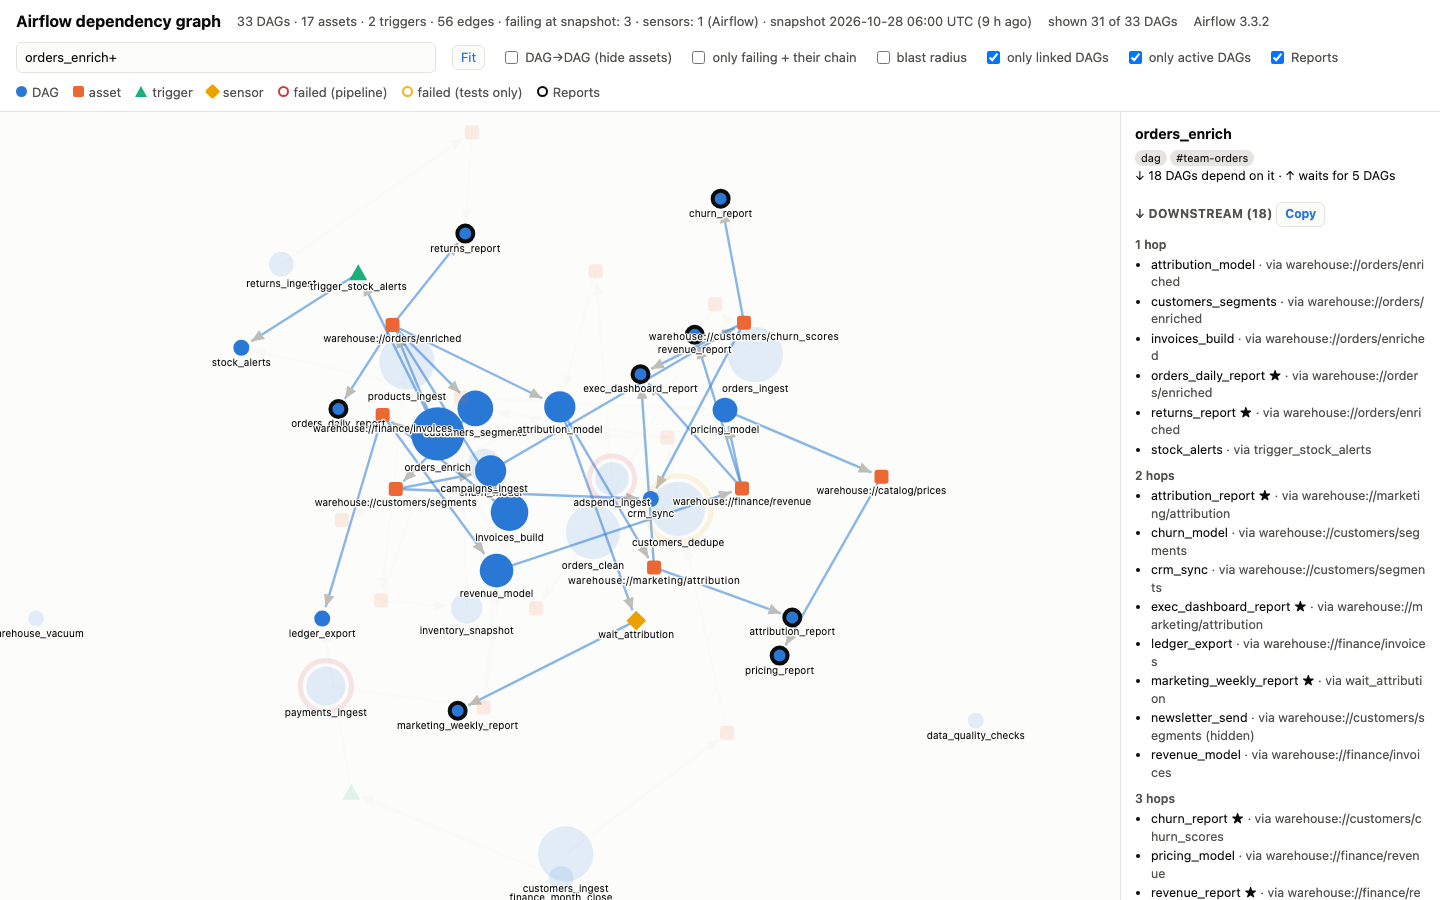
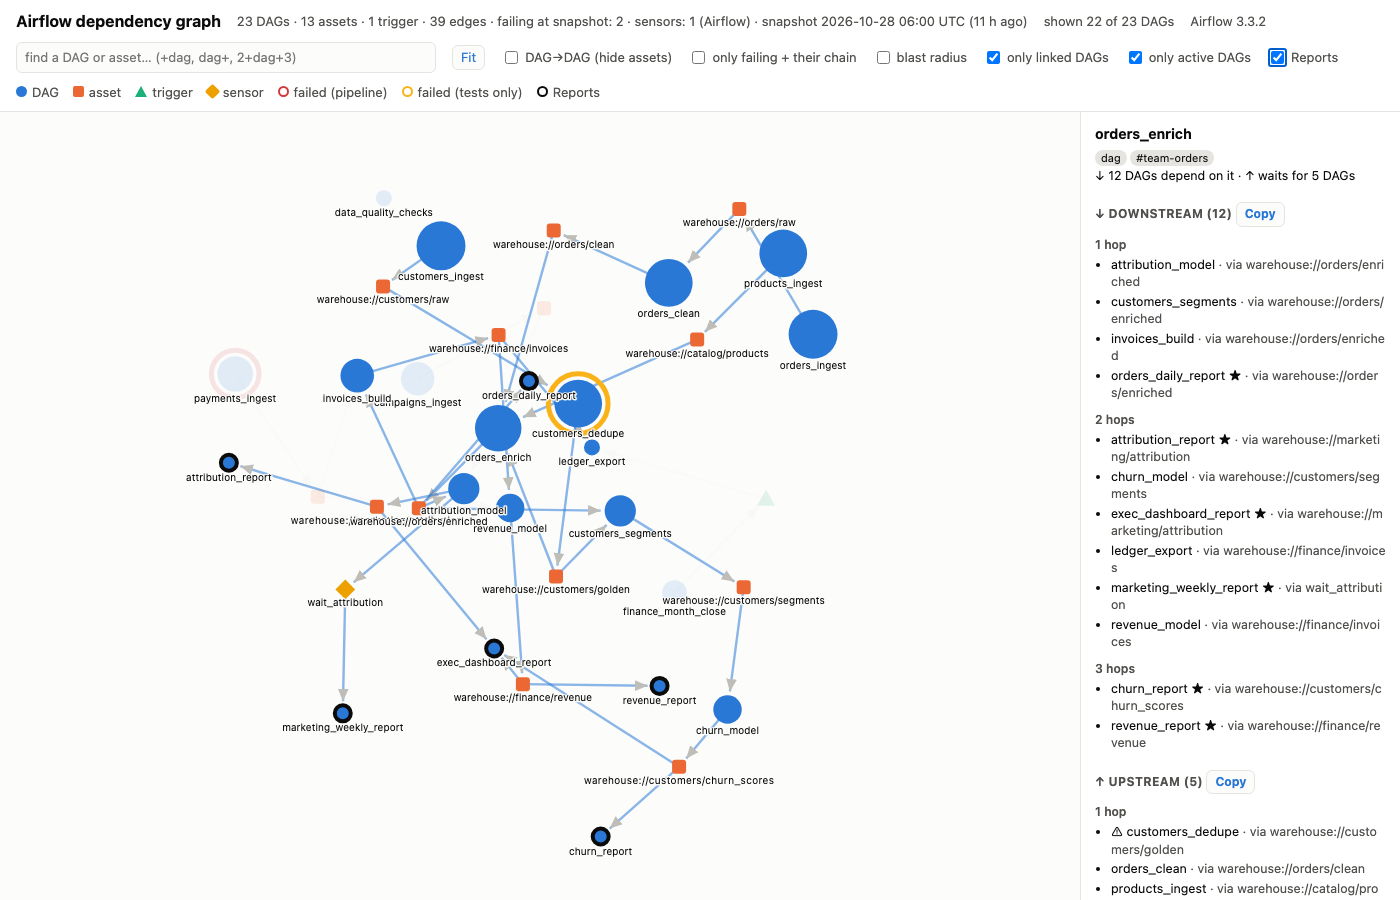
Release 0.5.2
README screenshot redone on a 23-DAG fictional snapshot so the labels are
readable; docs/demo_snapshot.py writes exactly that snapshot.

diff --git a/docs/demo_snapshot.py b/docs/demo_snapshot.py
@@ -1,6 +1,7 @@
-"""Write a fictional snapshot for the README screenshot: python3 docs/demo_snapshot.py demo.json
+"""Write the fictional snapshot behind the README screenshot: python3 docs/demo_snapshot.py demo.json
 
-Then: airflow-depgraph render demo.json --highlight '_report$' --highlight-label Reports -o demo.html
+Screenshot: AIRFLOW_DEPGRAPH_HIGHLIGHT_LABEL=Reports airflow-depgraph render demo.json --highlight '_report$' -o demo.html,
+open it in a 1400x900 window, click orders_enrich, press Fit.
 """
 
 from __future__ import annotations
@@ -9,25 +10,21 @@ import json
 import random
 import sys
 
-random.seed(7)
 FETCHED = "2026-10-28T06:00:00Z"
 TEAMS = {"orders": "team-orders", "customers": "team-customers", "finance": "team-finance",
          "marketing": "team-marketing"}
 
-# (dag_id, tags, schedule, outlets)  schedule None → asset-driven
+# (dag_id, teams, cron, outlets)  cron None → asset-driven
 PIPELINES = [
     ("orders_ingest", ["orders"], "0 4 * * *", ["warehouse://orders/raw"]),
     ("orders_clean", ["orders"], None, ["warehouse://orders/clean"]),
     ("orders_enrich", ["orders"], None, ["warehouse://orders/enriched"]),
     ("orders_daily_report", ["orders"], "0 7 * * *", []),
-    ("returns_ingest", ["orders"], "30 4 * * *", ["warehouse://orders/returns"]),
-    ("returns_report", ["orders"], None, []),
     ("customers_ingest", ["customers"], "0 3 * * *", ["warehouse://customers/raw"]),
     ("customers_dedupe", ["customers"], None, ["warehouse://customers/golden"]),
     ("customers_segments", ["customers"], None, ["warehouse://customers/segments"]),
     ("churn_model", ["customers"], None, ["warehouse://customers/churn_scores"]),
     ("churn_report", ["customers"], None, []),
-    ("crm_sync", ["customers", "marketing"], None, []),
     ("payments_ingest", ["finance"], "15 4 * * *", ["warehouse://finance/payments"]),
     ("invoices_build", ["finance"], None, ["warehouse://finance/invoices"]),
     ("revenue_model", ["finance"], None, ["warehouse://finance/revenue"]),
@@ -35,20 +32,13 @@ PIPELINES = [
     ("finance_month_close", ["finance"], "0 6 1 * *", []),
     ("ledger_export", ["finance"], None, []),
     ("campaigns_ingest", ["marketing"], "0 5 * * *", ["warehouse://marketing/campaigns"]),
-    ("adspend_ingest", ["marketing"], "10 5 * * *", ["warehouse://marketing/adspend"]),
     ("attribution_model", ["marketing"], None, ["warehouse://marketing/attribution"]),
     ("attribution_report", ["marketing"], None, []),
     ("marketing_weekly_report", ["marketing"], "0 8 * * 1", []),
-    ("newsletter_send", ["marketing"], None, []),
     ("products_ingest", ["orders"], "0 2 * * *", ["warehouse://catalog/products"]),
-    ("inventory_snapshot", ["orders"], None, ["warehouse://catalog/inventory"]),
-    ("stock_alerts", ["orders"], None, []),
-    ("pricing_model", ["orders", "finance"], None, ["warehouse://catalog/prices"]),
-    ("pricing_report", ["finance"], None, []),
     ("exec_dashboard_report", ["finance"], None, []),
     ("data_quality_checks", [], "0 9 * * *", []),
     ("gdpr_erasure", ["customers"], "0 1 * * 0", []),
-    ("warehouse_vacuum", [], "0 0 * * *", []),
 ]
 # consumer → assets it waits for
 CONSUMES = {
@@ -56,32 +46,25 @@ CONSUMES = {
     "orders_enrich": ["warehouse://orders/clean", "warehouse://customers/golden",
                       "warehouse://catalog/products"],
     "orders_daily_report": ["warehouse://orders/enriched"],
-    "returns_report": ["warehouse://orders/returns", "warehouse://orders/enriched"],
     "customers_dedupe": ["warehouse://customers/raw"],
     "customers_segments": ["warehouse://customers/golden", "warehouse://orders/enriched"],
     "churn_model": ["warehouse://customers/segments"],
     "churn_report": ["warehouse://customers/churn_scores"],
-    "crm_sync": ["warehouse://customers/segments", "warehouse://customers/churn_scores"],
     "invoices_build": ["warehouse://finance/payments", "warehouse://orders/enriched"],
     "revenue_model": ["warehouse://finance/invoices", "warehouse://finance/payments"],
     "revenue_report": ["warehouse://finance/revenue"],
     "ledger_export": ["warehouse://finance/invoices"],
-    "attribution_model": ["warehouse://marketing/campaigns", "warehouse://marketing/adspend",
-                          "warehouse://orders/enriched"],
+    "attribution_model": ["warehouse://marketing/campaigns", "warehouse://orders/enriched"],
     "attribution_report": ["warehouse://marketing/attribution"],
-    "newsletter_send": ["warehouse://customers/segments"],
-    "inventory_snapshot": ["warehouse://catalog/products"],
-    "stock_alerts": ["warehouse://catalog/inventory"],
-    "pricing_model": ["warehouse://catalog/inventory", "warehouse://finance/revenue"],
-    "pricing_report": ["warehouse://catalog/prices"],
     "exec_dashboard_report": ["warehouse://finance/revenue", "warehouse://marketing/attribution",
                               "warehouse://customers/churn_scores"],
 }
-TRIGGERS = [("finance_month_close", "ledger_export"), ("orders_enrich", "stock_alerts")]
+TRIGGERS = [("finance_month_close", "ledger_export")]
 SENSORS = [("marketing_weekly_report", "wait_attribution", "attribution_model")]
-FAILED = {"payments_ingest": "pipeline", "customers_dedupe": "tests", "adspend_ingest": "pipeline"}
-PAUSED = {"gdpr_erasure", "newsletter_send"}
+FAILED = {"payments_ingest": "pipeline", "customers_dedupe": "tests"}
+PAUSED = {"gdpr_erasure"}
 
+random.seed(7)
 nodes, edges, catalog, dags = [], [], {}, {}
 asset_ids: dict[str, str] = {}
 
@@ -102,9 +85,9 @@ for dag_id, teams, cron, outlets in PIPELINES:
     catalog[dag_id] = {"tags": tags, "is_paused": dag_id in PAUSED, "is_stale": False,
                        "schedule": schedule, "owners": owners}
     kind = FAILED.get(dag_id)
-    state = "failed" if kind else "success"
     hour = random.randint(2, 8)
-    run = {"state": state, "kind": kind or "ok", "run_after": f"2026-10-28T0{hour}:00:00Z",
+    run = {"state": "failed" if kind else "success", "kind": kind or "ok",
+           "run_after": f"2026-10-28T0{hour}:00:00Z",
            "run_id": f"scheduled__2026-10-28T0{hour}:00:00+00:00",
            "failed_tasks": ["load"] if kind == "pipeline" else (["dbt_test"] if kind else [])}
     dags[dag_id] = {"is_paused": dag_id in PAUSED, "schedule": schedule, "owners": owners,
@@ -122,6 +105,11 @@ for i, (waiter, task, target) in enumerate(SENSORS, 1):
     sid = f"sensor:{i}"
     nodes.append({"id": sid, "label": task, "type": "sensor"})
     edges += [{"source_id": f"dag:{target}", "target_id": sid}, {"source_id": sid, "target_id": f"dag:{waiter}"}]
+
+# The order of nodes and edges seeds the force layout; this order gives the spread-out picture.
+random.seed(2)
+random.shuffle(nodes)
+random.shuffle(edges)
 
 snapshot = {"format": 1, "fetched_at": FETCHED, "source": "https://airflow.example.com",
             "airflow_version": "3.3.2", "nodes": nodes, "edges": edges, "dags": dags,

diff --git a/src/airflow_depgraph/__init__.py b/src/airflow_depgraph/__init__.py
@@ -1,1 +1,1 @@
-__version__ = "0.5.1"
+__version__ = "0.5.2"

diff --git a/CHANGELOG.md b/CHANGELOG.md
@@ -5,6 +5,14 @@ All notable changes to this project are documented here. The format follows
 
 ## [Unreleased]
 
+## [0.5.2] - 2026-10-28
+
+### Changed
+- README screenshot redone on a smaller fictional snapshot (23 DAGs) so the labels are readable; `docs/demo_snapshot.py` writes exactly that snapshot.
+
+### Fixed
+- `fetch_tasks` stops its queued calls deterministically after a 401. The test that counts those calls depended on thread timing and failed on a slow CI runner (the v0.5.1 tag build).
+
 ## [0.5.1] - 2026-10-28
 
 ### Added

diff --git a/README.md b/README.md
@@ -62,7 +62,7 @@ Tested on Airflow 3.1.5 and 3.3.2, at the root and under a sub-path such as `/ai
 **Install on Astro.** Add one line to the project's `requirements.txt` and rebuild:
 
 ```text
-airflow-depgraph @ https://github.com/fridayqq/airflow-depgraph/archive/refs/tags/v0.5.1.tar.gz
+airflow-depgraph @ https://github.com/fridayqq/airflow-depgraph/archive/refs/tags/v0.5.2.tar.gz
 ```
 
 ```bash
